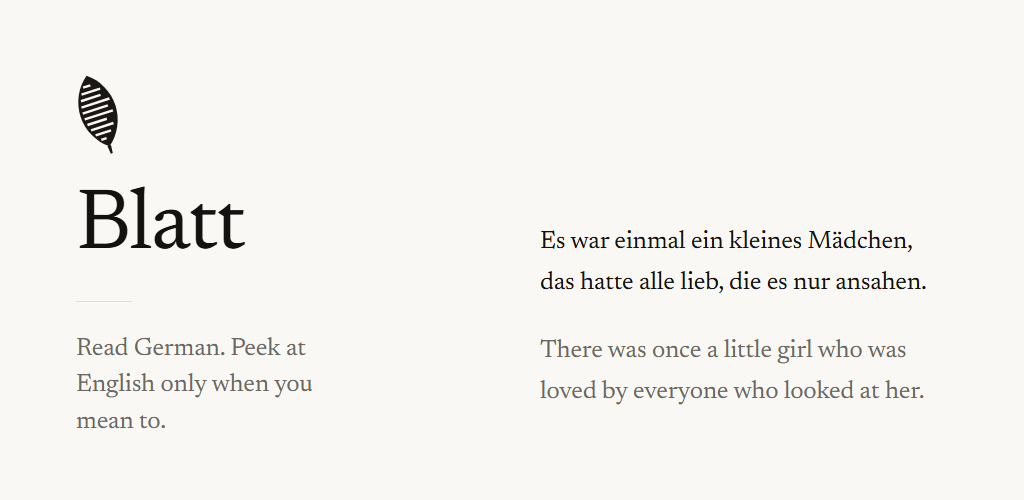
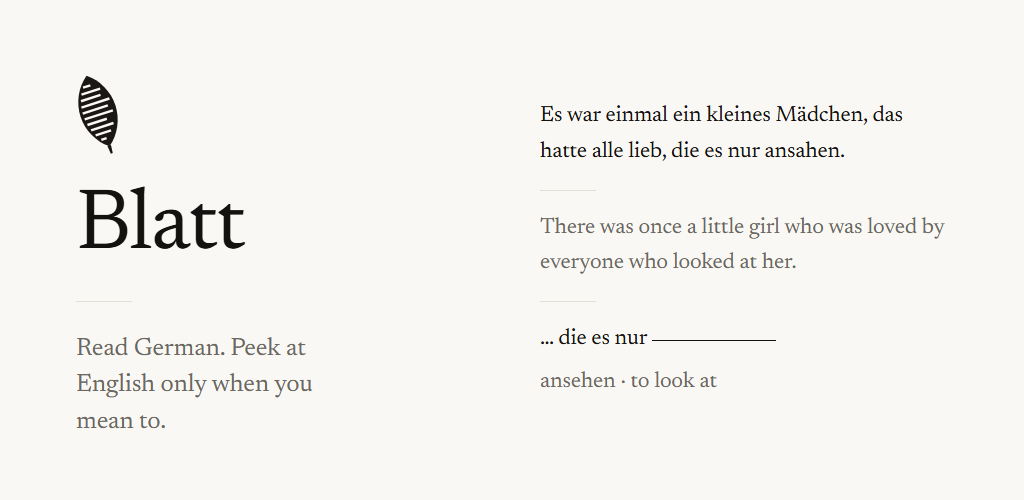
Google's key alongside ours, and the card on the poster
Play re-signs what it distributes, so the app a tester installs carries a
fingerprint this site had never heard of. Both are listed now: ours for the
sideloaded build, Google's for the one from the store. Without the second the
release opens with an address bar across the top and looks like a browser.

The feature graphic grows a third beat: the sentence, the same sentence in
graphite, and then the word lifted out of it with a line where it stood. The
columns are centred rather than sharing a baseline — three beats outgrew the
left column and the last line fell off the bottom.

diff --git a/docs/play/listing.md b/docs/play/listing.md
@@ -15,7 +15,7 @@ Blatt
 
 ## Short description (80 max)
 
-Read German. Peek at English only when you mean to.
+Read German. Peek at English only when you mean to and save words that turn into flashcards.
 
 ## Full description (4000 max)
 
